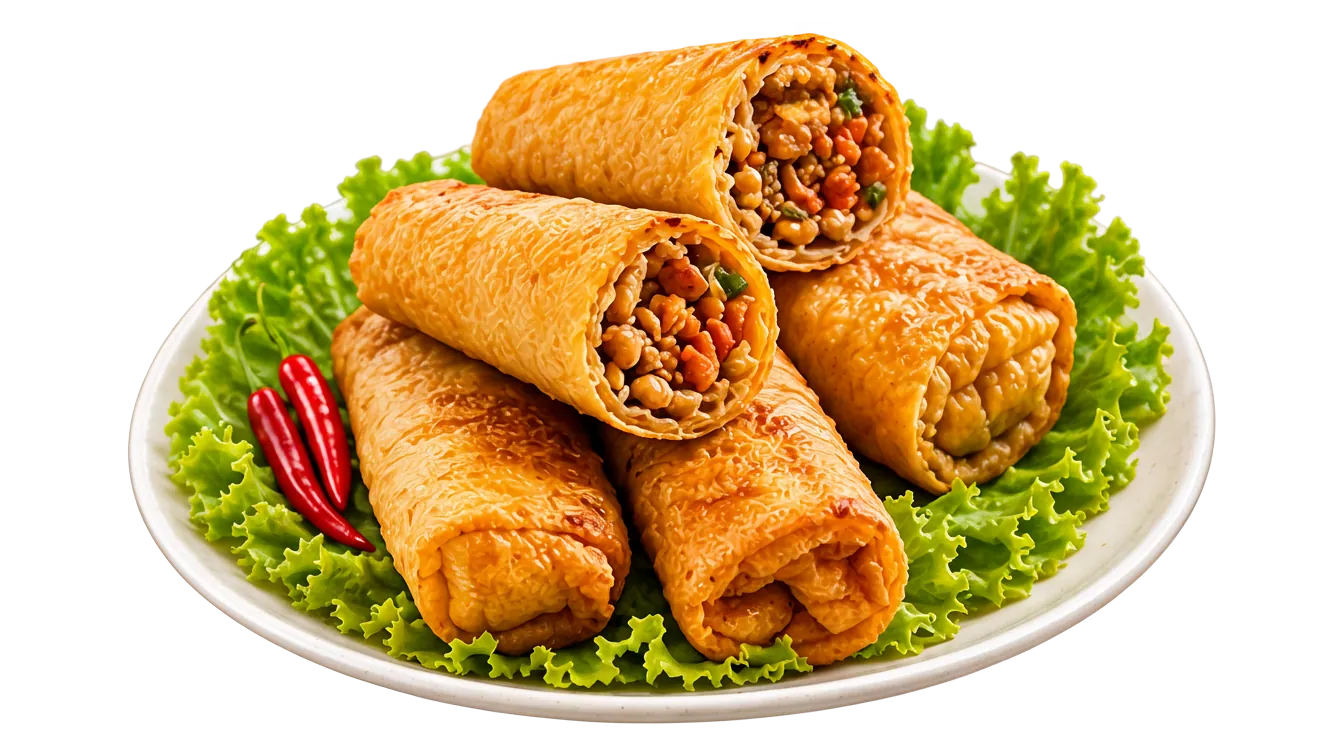
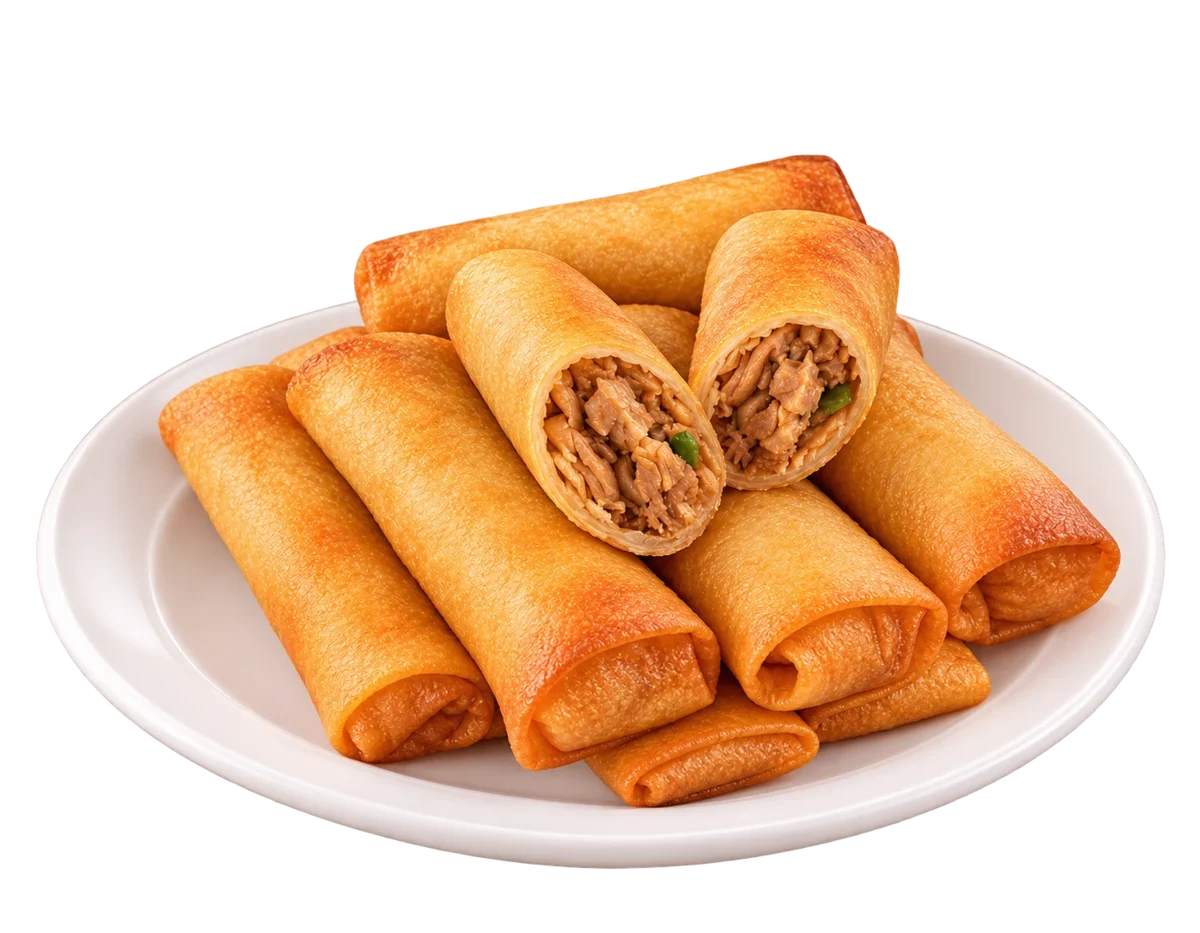
feat: replace hero image with split lumpia plate

diff --git a/src/content/beranda.ts b/src/content/beranda.ts
@@ -16,7 +16,7 @@ export const hero: HeroProps = {
   whatsappLabel: "Pesan Sekarang",
   whatsappMessage: "Halo Mbak Cun, saya mau pesan lumpia.",
   menuLabel: "Lihat Paket",
-  image: { src: "/images/hero/piring-lumpia.webp", alt: "Sepiring lumpia mini goreng dengan cabai rawit dan selada" },
+  image: { src: "/images/hero/piring-lumpia.webp", alt: "Sepiring lumpia goreng, satu potong terbelah memperlihatkan isian rebung" },
 };
 
 export const catalog = {
